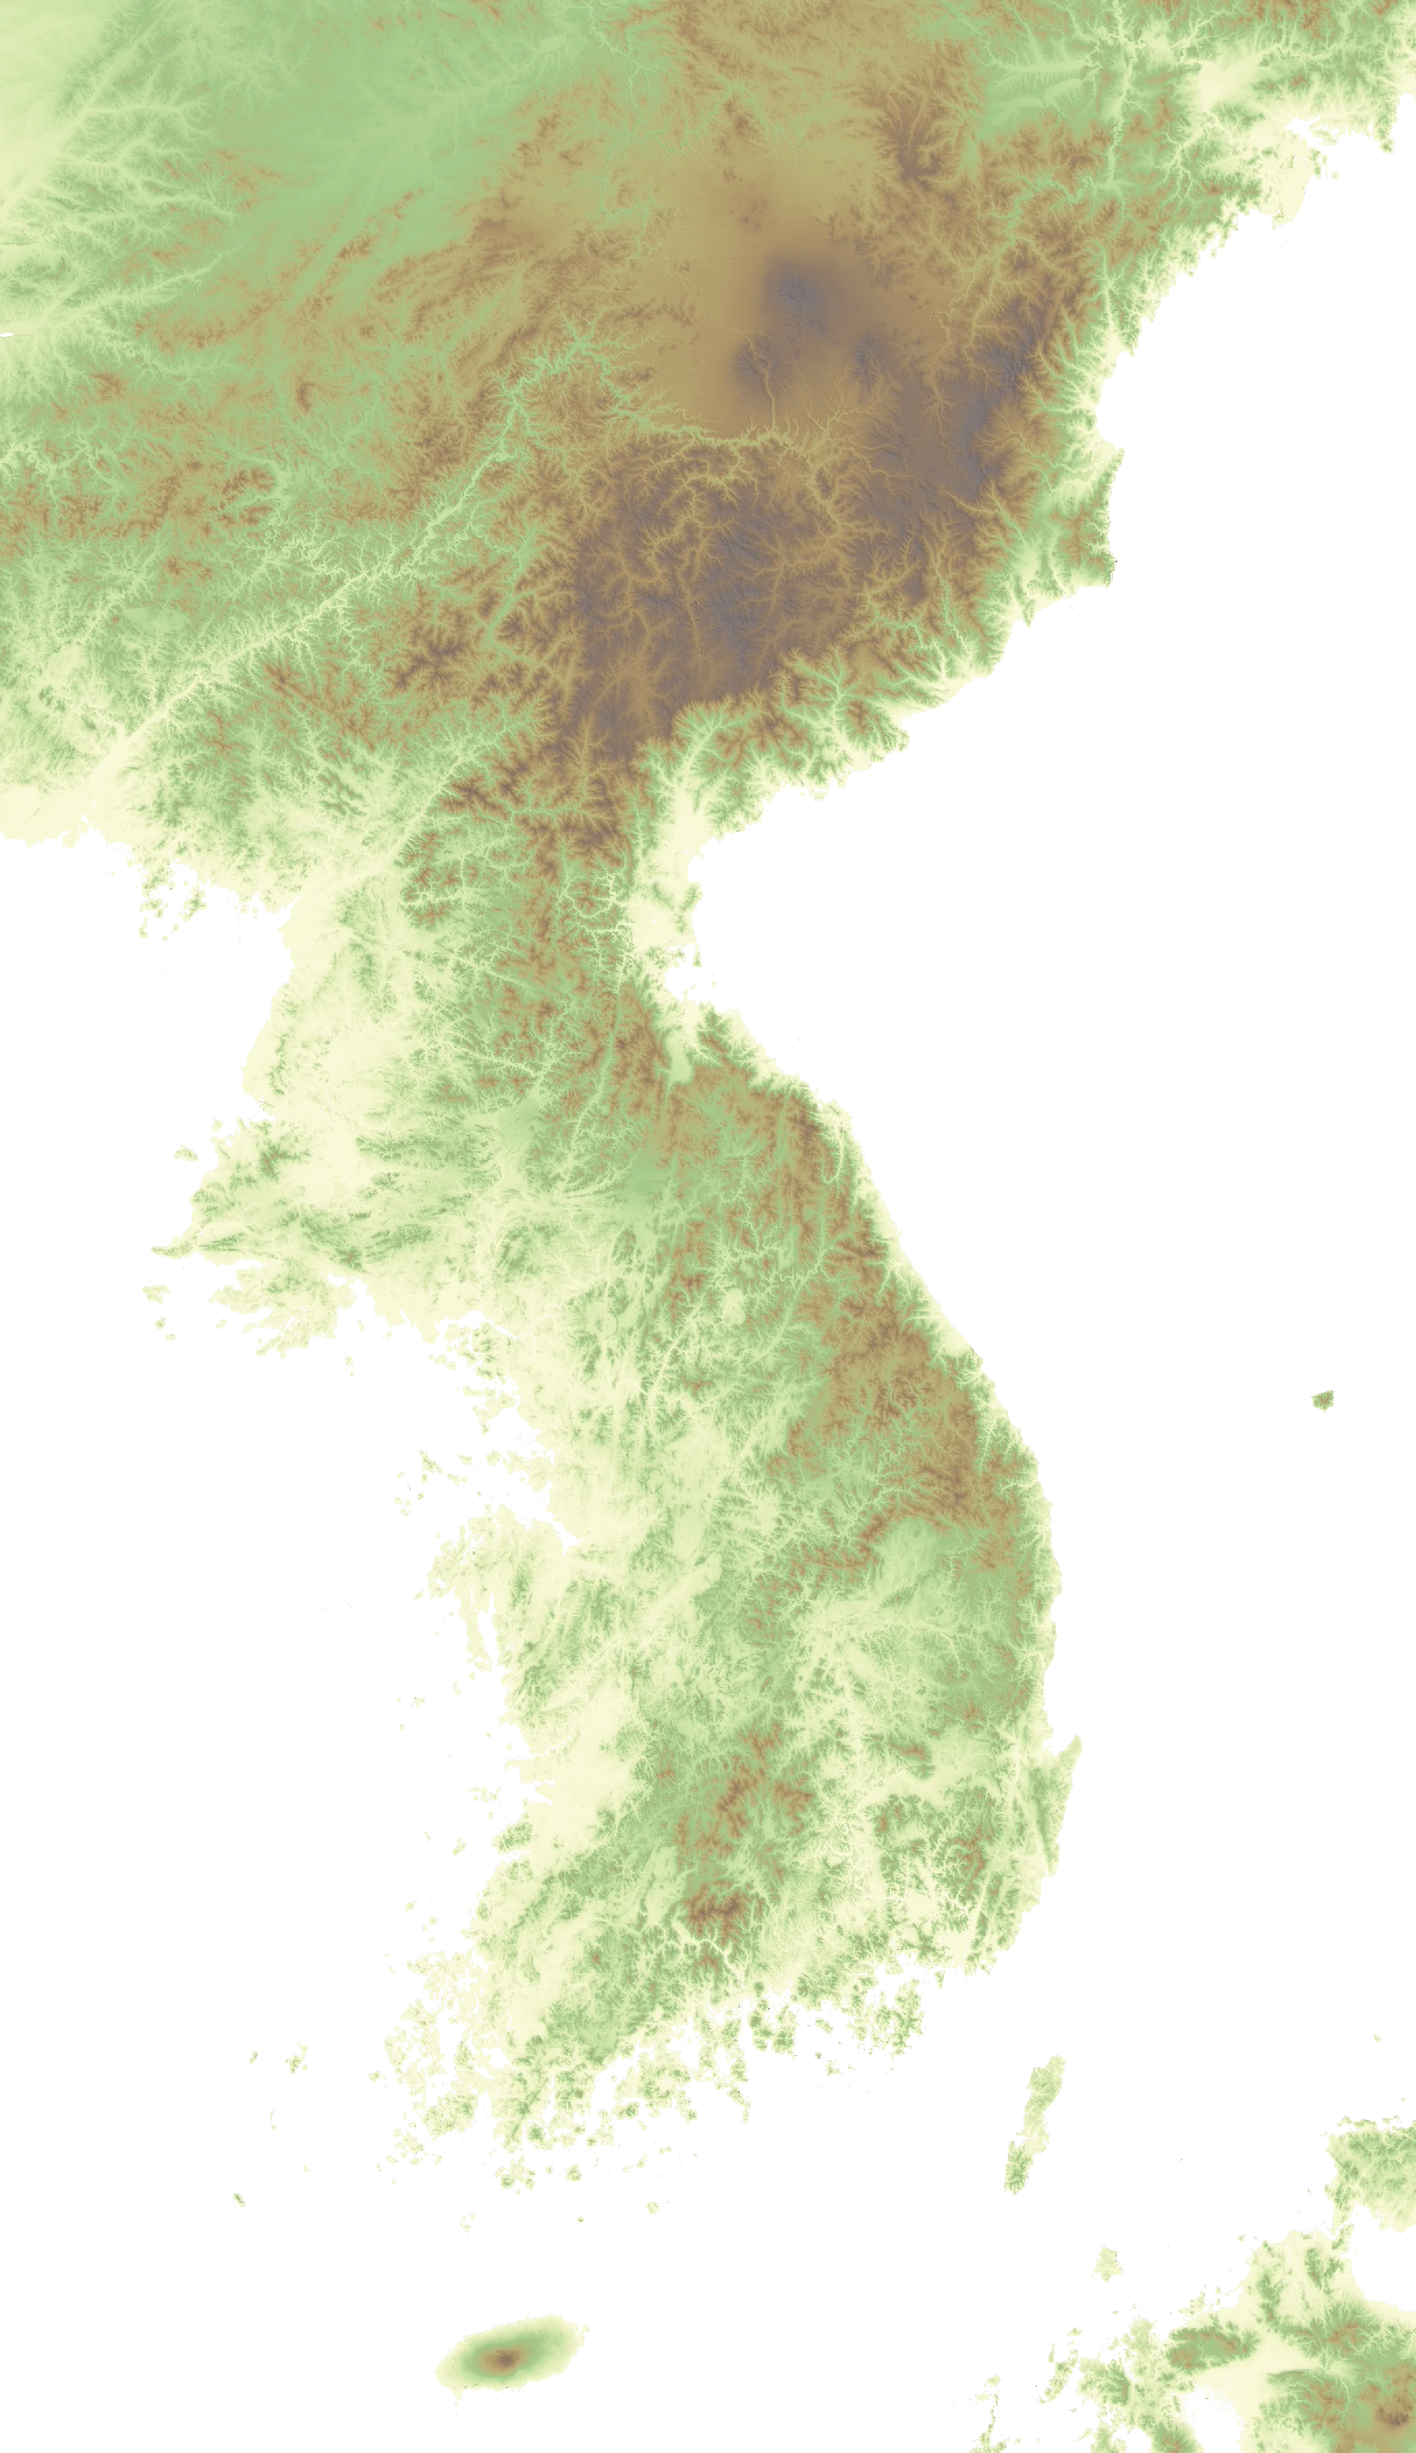
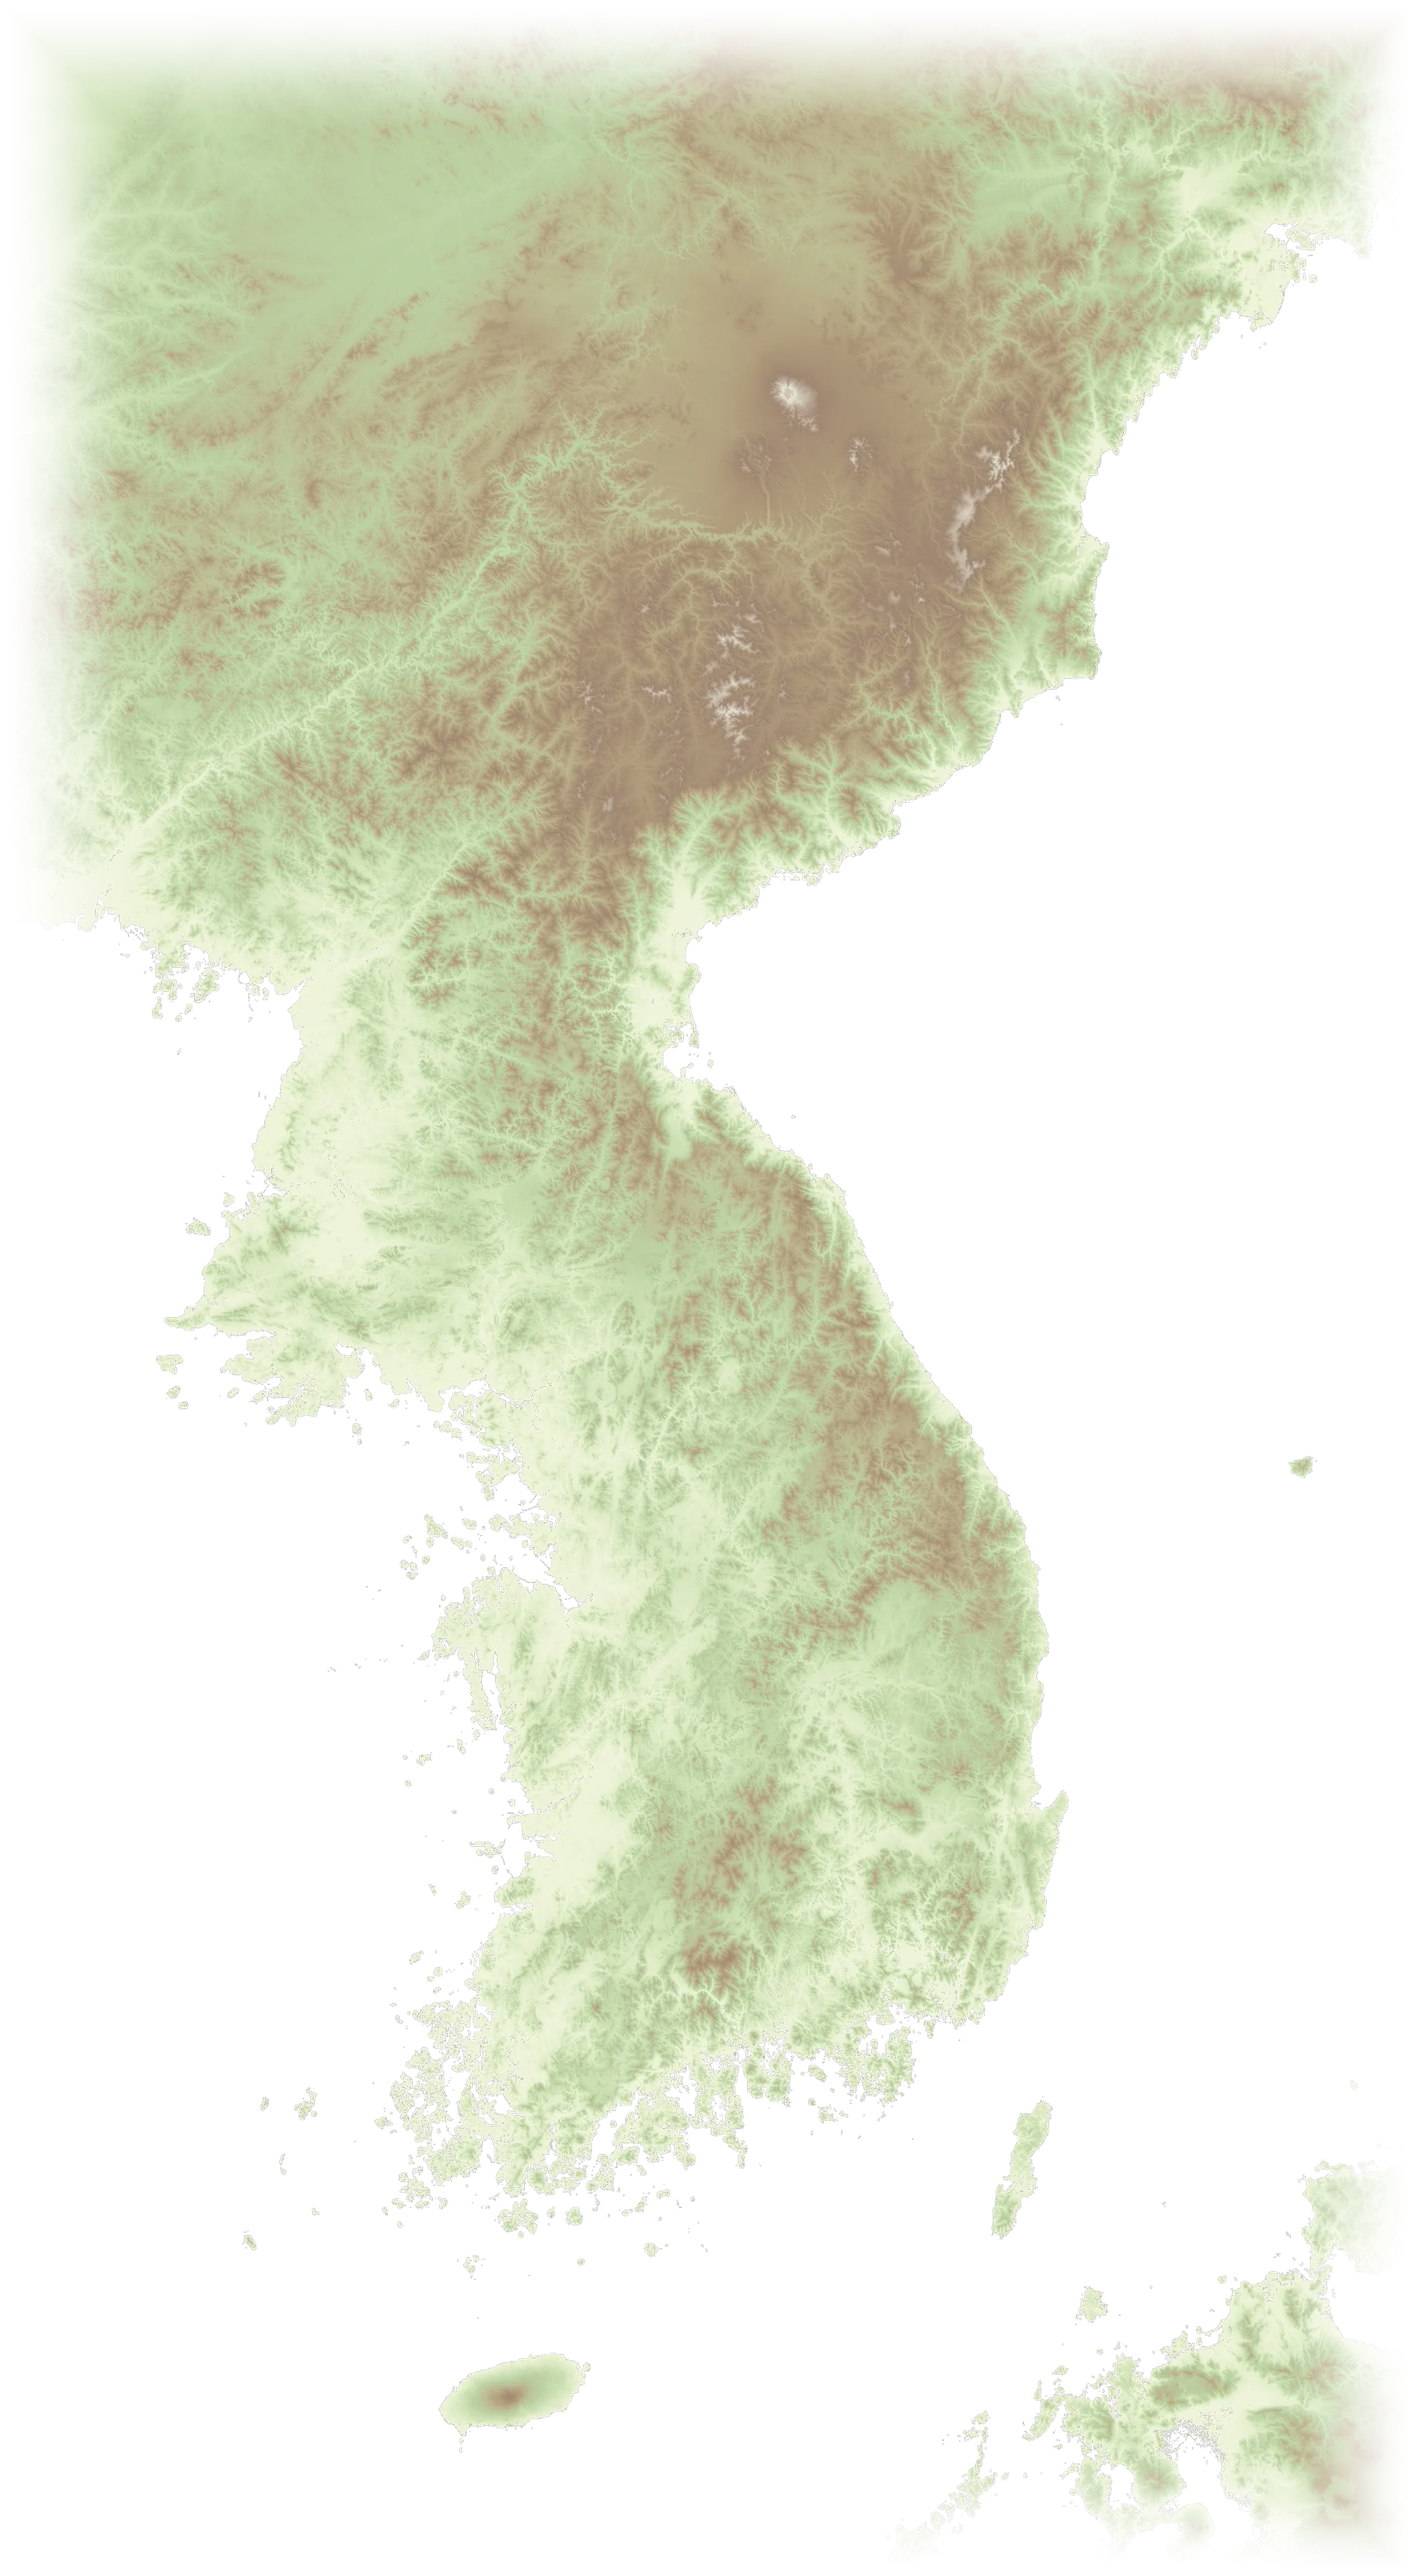
Blend regional relief and declutter river labels

diff --git a/learning/inquiry/korea-geography/app.js b/learning/inquiry/korea-geography/app.js
@@ -6,6 +6,8 @@
   const questions = Array.isArray(dataset.questions) ? dataset.questions : [];
   const THEME_ORDER = ["terrain", "climate", "population", "industry", "region"];
   const KOREA_BOUNDS = L.latLngBounds([[32.95, 123.85], [43.15, 131.35]]);
+  const REGIONAL_RELIEF_BOUNDS = L.latLngBounds([[8.407168, 90], [60.239811, 171.5625]]);
+  const DETAIL_RELIEF_BOUNDS = L.latLngBounds([[32.546813, 123.75], [43.580391, 131.484375]]);
   const BASEMAP_KEY = "cb1_2lqh_1_23aa6103cd67c20c2791ad29";
   const PROGRESS_KEY = "joyclass-korea-geography-progress-v1";
   const provinceLabels = [
@@ -50,6 +52,8 @@
   let questionBoundaryLayer;
   let questionThemeLayer;
   let questionFocusLayer;
+  const reliefZoomSync = new WeakMap();
+  const annotationZoomSync = new WeakMap();
 
   const $ = (selector) => document.querySelector(selector);
   const $$ = (selector) => [...document.querySelectorAll(selector)];
@@ -419,14 +423,41 @@
   }
 
   function drawThemeOnMap(map, group, theme, interactive) {
+    const previousReliefSync = reliefZoomSync.get(map);
+    if (previousReliefSync) {
+      map.off("zoomend", previousReliefSync);
+      reliefZoomSync.delete(map);
+    }
+    const previousAnnotationSync = annotationZoomSync.get(map);
+    if (previousAnnotationSync) {
+      map.off("zoomend", previousAnnotationSync);
+      annotationZoomSync.delete(map);
+    }
     group.clearLayers();
     if (theme.relief) {
-      L.imageOverlay("assets/korea-physical-relief.webp?v=20260902-5", KOREA_BOUNDS, {
+      L.imageOverlay("assets/east-asia-physical-relief.webp?v=20260902-6", REGIONAL_RELIEF_BOUNDS, {
         pane: "reliefPane",
-        opacity: 0.84,
+        opacity: 0.76,
+        interactive: false,
+        className: "east-asia-physical-relief"
+      }).addTo(group);
+
+      const detailRelief = L.imageOverlay("assets/korea-physical-relief.webp?v=20260902-6", DETAIL_RELIEF_BOUNDS, {
+        pane: "reliefPane",
+        opacity: 0.58,
         interactive: false,
         className: "korea-physical-relief"
-      }).addTo(group);
+      });
+      const syncDetailRelief = () => {
+        if (map.getZoom() >= 7) {
+          if (!group.hasLayer(detailRelief)) group.addLayer(detailRelief);
+        } else if (group.hasLayer(detailRelief)) {
+          group.removeLayer(detailRelief);
+        }
+      };
+      reliefZoomSync.set(map, syncDetailRelief);
+      map.on("zoomend", syncDetailRelief);
+      syncDetailRelief();
     }
     if (theme.rivers && majorRivers) drawMajorRivers(group, interactive);
     (theme.zones || []).forEach((zone) => {
@@ -456,14 +487,29 @@
       if (interactive) polyline.bindTooltip(line.name, { sticky: true, className: "study-tooltip" });
     });
     if (interactive) {
-      (theme.annotations || []).forEach((annotation) => {
+      const annotationMarkers = (theme.annotations || []).map((annotation) => {
         const icon = L.divIcon({
           className: "geo-annotation-wrapper",
           html: `<span class="geo-annotation geo-annotation--${annotation.kind}">${annotation.name}</span>`,
           iconSize: [0, 0]
         });
-        L.marker([annotation.lat, annotation.lng], { icon, pane: "themeLabels", interactive: false }).addTo(group);
+        return {
+          marker: L.marker([annotation.lat, annotation.lng], { icon, pane: "themeLabels", interactive: false }),
+          minZoom: annotation.minZoom || 5
+        };
       });
+      const syncAnnotationVisibility = () => {
+        annotationMarkers.forEach(({ marker, minZoom }) => {
+          if (map.getZoom() >= minZoom) {
+            if (!group.hasLayer(marker)) group.addLayer(marker);
+          } else if (group.hasLayer(marker)) {
+            group.removeLayer(marker);
+          }
+        });
+      };
+      annotationZoomSync.set(map, syncAnnotationVisibility);
+      map.on("zoomend", syncAnnotationVisibility);
+      syncAnnotationVisibility();
     }
     if (theme.featureMarkers !== false) {
       (theme.features || []).forEach((feature) => {

diff --git a/learning/inquiry/korea-geography/data.js b/learning/inquiry/korea-geography/data.js
@@ -26,21 +26,22 @@
       annotations: [
         { name: "백두산", kind: "mountain", lat: 42.01, lng: 128.06 },
         { name: "개마고원", kind: "mountain", lat: 41.25, lng: 127.95 },
-        { name: "낭림산맥", kind: "mountain", lat: 40.65, lng: 127.30 },
-        { name: "함경산맥", kind: "mountain", lat: 40.85, lng: 128.65 },
+        { name: "낭림산맥", kind: "mountain", lat: 40.65, lng: 127.30, minZoom: 6 },
+        { name: "함경산맥", kind: "mountain", lat: 40.85, lng: 128.65, minZoom: 6 },
         { name: "압록강", kind: "river", lat: 40.55, lng: 125.45 },
         { name: "두만강", kind: "river", lat: 42.25, lng: 129.60 },
         { name: "대동강", kind: "river", lat: 39.15, lng: 125.70 },
-        { name: "청천강", kind: "river", lat: 40.08, lng: 126.21 },
-        { name: "북한강", kind: "river", lat: 37.78, lng: 127.63 },
-        { name: "남한강", kind: "river", lat: 37.47, lng: 127.48 },
-        { name: "임진강", kind: "river", lat: 38.05, lng: 126.92 },
+        { name: "청천강", kind: "river", lat: 40.08, lng: 126.21, minZoom: 6 },
+        { name: "북한강", kind: "river", lat: 37.78, lng: 127.63, minZoom: 7 },
+        { name: "남한강", kind: "river", lat: 37.47, lng: 127.48, minZoom: 7 },
+        { name: "임진강", kind: "river", lat: 38.05, lng: 126.92, minZoom: 7 },
         { name: "태백산맥", kind: "mountain", lat: 37.22, lng: 128.78 },
         { name: "소백산맥", kind: "mountain", lat: 36.20, lng: 128.03 },
         { name: "한강", kind: "river", lat: 37.53, lng: 126.82 },
         { name: "금강", kind: "river", lat: 36.28, lng: 127.05 },
         { name: "낙동강", kind: "river", lat: 35.82, lng: 128.47 },
-        { name: "영산강", kind: "river", lat: 35.05, lng: 126.68 }
+        { name: "영산강", kind: "river", lat: 35.05, lng: 126.68 },
+        { name: "섬진강", kind: "river", lat: 35.30, lng: 127.58 }
       ],
       features: [
         { name: "백두산·개마고원", icon: "▲", color: "#75481f", lat: 41.60, lng: 128.02, zoom: 7, note: "한반도에서 가장 높고 험준한 북부 산지" },

diff --git a/learning/inquiry/korea-geography/index.html b/learning/inquiry/korea-geography/index.html
@@ -6,7 +6,7 @@
   <meta name="theme-color" content="#123c46">
   <title>한국지리 지도 학습 | Joyclass</title>
   <link rel="stylesheet" href="../korean-museum/vendor/leaflet/leaflet.css">
-  <link rel="stylesheet" href="styles.css?v=20260902-5">
+  <link rel="stylesheet" href="styles.css?v=20260902-7">
 </head>
 <body>
   <div class="app-shell">
@@ -138,8 +138,8 @@
   </dialog>
 
   <script src="../korean-museum/vendor/leaflet/leaflet.js"></script>
-  <script src="data.js?v=20260902-5"></script>
+  <script src="data.js?v=20260902-7"></script>
   <script src="principles.js?v=20260901-7"></script>
-  <script src="app.js?v=20260902-5"></script>
+  <script src="app.js?v=20260902-7"></script>
 </body>
 </html>

diff --git a/learning/inquiry/korea-geography/data/README.md b/learning/inquiry/korea-geography/data/README.md
@@ -13,12 +13,14 @@
 The file is a display layer, not a legal river-boundary dataset.
 
 
-## Korean Peninsula physical relief
+## Physical relief
 
-`../assets/korea-physical-relief.webp` is a self-hosted 2.5D physical-relief overlay cropped to the Korean Peninsula study bounds (`123.85–131.35°E`, `32.95–43.15°N`). It combines hypsometric elevation tint with multidirectional slope shading derived from Mapzen Terrain Tiles on AWS Open Data.
+`../assets/east-asia-physical-relief.webp` and `../assets/korea-physical-relief.webp` are self-hosted 2.5D relief overlays. The broad East Asia layer keeps the terrain tone continuous across China, the Korean Peninsula, the Russian Far East, and Japan. The detailed Korean Peninsula layer has a feathered outer edge and appears only from zoom 7 onward.
 
 - Source: Mapzen Terrain Tiles in the AWS Registry of Open Data
 - Accessed: 2026-09-02
-- Processing: 66 Terrarium DEM tiles at zoom 8 were decoded, cropped, hillshaded, and exported as a transparent 1366×2365 WebP.
-- Runtime behavior: the site loads only this local regional image; it does not request Esri world terrain or hillshade tiles.
+- Processing: the RGB surface normals and alpha-channel quantized elevations from 696 zoom-7 regional tiles and 220 zoom-9 detail tiles were converted to hypsometric tint plus directional slope shading.
+- Output: 4096×3390 regional WebP and 2048×3724 feathered detail WebP, both with transparent sea pixels.
+- Runtime behavior: the site requests only these local relief assets; it does not request Esri world terrain or hillshade tiles.
+- Rebuild script: `../tools/generate-relief.ps1`
 - Source and attribution: https://registry.opendata.aws/terrain-tiles/
